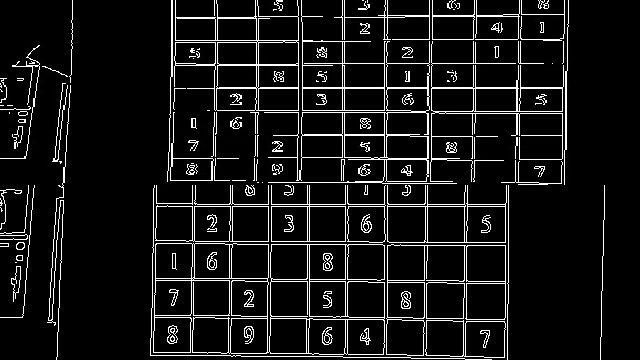
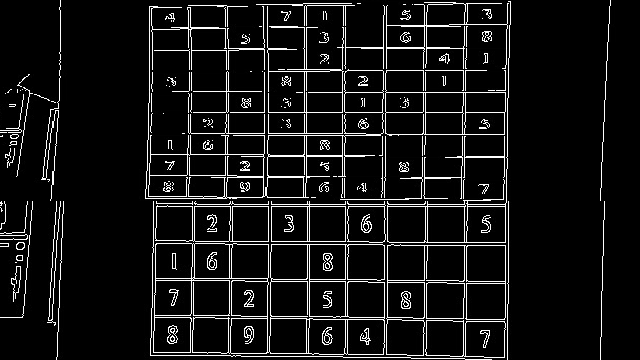
iterative flood fill

diff --git a/git_tests/image/image.c b/git_tests/image/image.c
@@ -28,6 +28,69 @@ typedef struct {
 }L;
 int * flood_fill(int i, int * dim ,int * isl)
 {
+	int * q = malloc(sizeof(int));
+	int * res = malloc(4*sizeof(int));
+	res[0] = res[2] = dim[0];
+	res[1] = dim[1]/dim[0];
+	res[3] = 0;
+	q[0] = i;
+	int len = 1;
+	int x,y,dn,up,l,r;
+	while(len > 0)
+	{
+		len--;
+		i = q[len];
+		q = realloc(q,len*sizeof(int));
+		isl[i] = 0;
+		res[3]++;
+		x = i / dim[0];
+		y = i / dim[0];
+		
+		if(x < res[0] && y < res[1])
+		{
+			res[0] = x;
+			res[1] = y;
+		}
+		else if(x == res[0] && y > res[2])
+			res[2] = y;
+
+		//4 coordinates to check
+		dn = i - dim[0];
+		up = i + dim[0];
+		r = i + 1;
+		l = i - 1;
+
+		if(dn >= 0 && dn < dim[1] && isl[dn] > 0)
+		{
+			len++;
+			q = realloc(q,len*sizeof(int));
+			q[len-1] = dn;	
+		}
+		if(up >= 0 && up < dim[1] && isl[up] > 0)
+		{
+			len++;
+			q = realloc(q,len*sizeof(int));
+			q[len-1] = up;	
+		}
+		if(r >= 0 && r < dim[1] && isl[r] > 0)
+		{
+			len++;
+			q = realloc(q,len*sizeof(int));
+			q[len-1] = r;	
+		}
+		if(l >= 0 && l < dim[1] && isl[l] > 0)
+		{
+			len++;
+			q = realloc(q,len*sizeof(int));
+			q[len-1] = l;	
+		}
+	}
+	free(q);
+	return res;
+
+}
+int * flood_fill_rec(int i, int * dim ,int * isl)
+{
 	//coo has len 4 
 	//modifies coo as : {lowest x, lowest y, max y, size of the island}
 	//recursive
@@ -126,15 +189,16 @@ void extract_grid(SDL_Surface * sco)
 		if(isl[i] > 0)
 		{
 			mem = flood_fill(i,dim,isl);
-			if(mem[0]*w+mem[1] < coo[0]*w+coo[1])
+			//if(mem[0]*w+mem[1] < coo[0]*w+coo[1])
+			//else if(mem[0] == coo[0] && mem[2] > coo[2])
+			       //coo[2] = mem[2]; 
+			if(mem[3] > max)
 			{
+				max = mem[3];
 				coo[0] = mem[0];
 				coo[1] = mem[1];
+			       	coo[2] = mem[2]; 
 			}
-			else if(mem[0] == coo[0] && mem[2] > coo[2])
-			       coo[2] = mem[2]; 
-			if(mem[3] > max)
-				max = mem[3];
 		}
 	}
 
@@ -1856,6 +1920,7 @@ int main(int argc, char** argv)
 		printf("line intersection :%d %d\n",cood[0],cood[1]);
 		break;
 	    case 7:
+		//surface_to_adaptive_treshold(sco,1);
 		//surface_to_invert(sco);
 		extract_grid(sco);
 		break;
